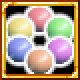
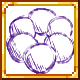
Reapply "Fresh paint"
This reverts commit 154b63cd7c29c09ea08ba68f0c6f61132f37a485.

diff --git a/README.md b/README.md
@@ -1,61 +1,9 @@
-# Archipelago Terraria Client
+# About This Fork
 
-Not to be confused with prior implementations:
+Built off of the [official Archipelago branch](https://github.com/Seldom-SE/archipelago_terraria_client), developed and managed by Seldom.
+If you're unclear about what Archipelago is, check out that page's README.
 
-- [TerrariaFlagRandomizer](https://github.com/Cronus-waters/TerrariaFlagRandomizer)
-- [TerrariaArchipelago](https://github.com/Whoneedspacee/TerrariaArchipelago)
-
-Archipelago is a multiworld randomizer, which is a sort of multi-game mod that shuffles things
-between games. So, for example, when you kill Skeletron in your Terraria game, your friend might get
-Mothwing Cloak in their Hollow Knight game. But you can't enter the Dungeon until your friend picks
-up the item at Vengeful Spirit's location in their game. Archipelago has support for a lot of games.
-Learn more on its [website](https://archipelago.gg/).
-
-This implementation uses boss kills and event clears as checks. The items are the permanent changes
-to the world that bosses and events reward in vanilla. Things like "Post-Plantera" and "Hardmode".
-Bosses still drop their original loot, though. Optionally, you may also include achievement checks
-and item rewards.
-
-Because this mod adds an extra layer of multiplayer, there are many ways to use it:
-- Randomize one singleplayer Terraria world
-- Randomize one multiplayer Terraria world
-- Randomize multiple singleplayer or multiplayer Terraria worlds between each other
-- Randomize Terraria with entirely separate games
-
-## Usage
-
-### For the Terraria player
-
-Subscribe to the mod at
-[its Steam page](https://steamcommunity.com/sharedfiles/filedetails/?id=2922217554). In Workshop >
-Manage Mods, edit Archipelago Randomizer (Seldom's Implementation)'s settings. If you're using
-archipelago.gg to host, leave the server address as "archipelago.gg". If you're hosting, the address
-will probably be "localhost" and the server should tell you the port. If not, whoever's hosting
-should know.
-
-You may use as many worlds as you like. You may open your world in multiplayer for others to join.
-Use `/ap` to use the Archipelago console, and `/apflags` to check what boss and event flags you
-have.
-
-### For the host, if you have any Terraria players
-
-You can host easily on [archipelago.gg](https://archipelago.gg/).
-
-For shorter runs, if this mod has upcoming content, and if it's up, you can use
-[Archipelago's beta site](http://archipelago.gg:24242/).
-
-Or, if you know how to use them, you can run locally with Terraria's `.apworld`. Check the
-`#terraria` channel on Archipelago's Discord for the latest `.apworld` if there is one.
-
-Alternatively, if you have the technical knowledge, you can run from source. Run
-[Archipelago](https://github.com/ArchipelagoMW/Archipelago) (or a branch on
-[my fork](https://github.com/Seldom-SE/Archipelago)) from source (see this
-[guide](https://github.com/ArchipelagoMW/Archipelago/blob/main/docs/running%20from%20source.md)).
-You will need to run `Generate.py` and `MultiServer.py`. To create the `yaml` files, you can run
-`WebHost.py`. This will run a website, so watch the console for an address including `localhost`,
-and go there on your browser. Terraria players have to setup their `yaml` files from this website,
-but other games should work fine from [the official site](https://archipelago.gg/). You may instead
-host the game with `WebHost.py`, if you prefer.
+This is a public beta for some features that may one day become official, should players enjoy them.
 
 ## License
 
